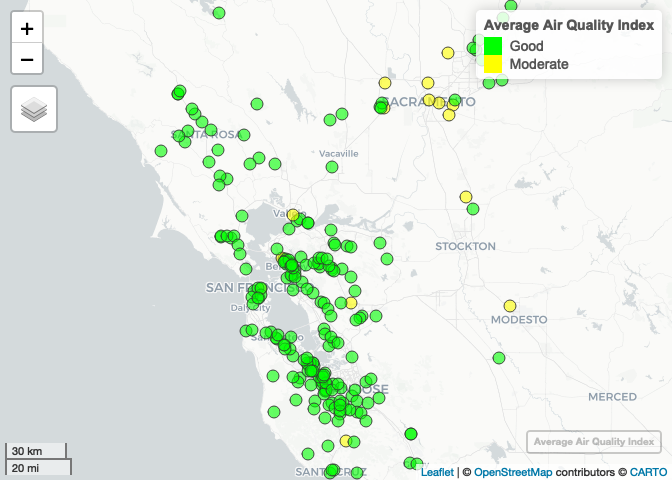
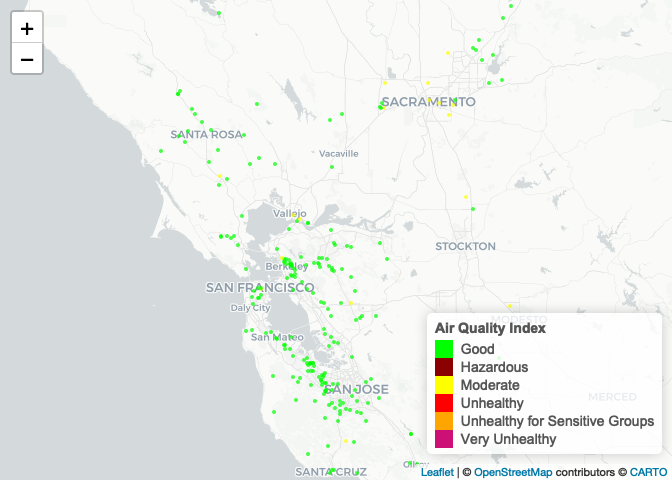
preprocess purpleair

diff --git a/PreprocessingPurpleAirPlots.md b/PreprocessingPurpleAirPlots.md
@@ -1,0 +1,24 @@
+Preprocessing PurpleAir Plots
+================
+
+# Clean PurpleAir data points
+
+## Load required libraries
+
+``` r
+library(dplyr) # For data manipulation
+library(data.table) # Faster than dataframes (for big files)
+library(ggplot2) # Plots
+library(sf) # Shapefiles
+```
+
+## Read files
+
+``` r
+purpleair_sensors <- st_read(paste0(purpleair_directory, "/purpleair_sensors.gpkg"), quiet = TRUE)
+purpleair_filtered_subset <- fread(paste0(preprocessing_directory, "/purpleair_filtered_2018-2019.csv"))
+```
+
+# Plot each sensor
+
+![](PreprocessingPurpleAirPlots_files/figure-gfm/sensor-plots-1.png)<!-- -->![](PreprocessingPurpleAirPlots_files/figure-gfm/sensor-plots-2.png)<!-- -->![](PreprocessingPurpleAirPlots_files/figure-gfm/sensor-plots-3.png)<!-- -->![](PreprocessingPurpleAirPlots_files/figure-gfm/sensor-plots-4.png)<!-- -->![](PreprocessingPurpleAirPlots_files/figure-gfm/sensor-plots-5.png)<!-- -->![](PreprocessingPurpleAirPlots_files/figure-gfm/sensor-plots-6.png)<!-- -->![](PreprocessingPurpleAirPlots_files/figure-gfm/sensor-plots-7.png)<!-- -->![](PreprocessingPurpleAirPlots_files/figure-gfm/sensor-plots-8.png)<!-- -->![](PreprocessingPurpleAirPlots_files/figure-gfm/sensor-plots-9.png)<!-- -->![](PreprocessingPurpleAirPlots_files/figure-gfm/sensor-plots-10.png)<!-- -->![](PreprocessingPurpleAirPlots_files/figure-gfm/sensor-plots-11.png)<!-- -->![](PreprocessingPurpleAirPlots_files/figure-gfm/sensor-plots-12.png)<!-- -->![](PreprocessingPurpleAirPlots_files/figure-gfm/sensor-plots-13.png)<!-- -->![](PreprocessingPurpleAirPlots_files/figure-gfm/sensor-plots-14.png)<!-- -->![](PreprocessingPurpleAirPlots_files/figure-gfm/sensor-plots-15.png)<!-- -->![](PreprocessingPurpleAirPlots_files/figure-gfm/sensor-plots-16.png)<!-- -->![](PreprocessingPurpleAirPlots_files/figure-gfm/sensor-plots-17.png)<!-- -->![](PreprocessingPurpleAirPlots_files/figure-gfm/sensor-plots-18.png)<!-- -->![](PreprocessingPurpleAirPlots_files/figure-gfm/sensor-plots-19.png)<!-- -->![](PreprocessingPurpleAirPlots_files/figure-gfm/sensor-plots-20.png)<!-- -->![](PreprocessingPurpleAirPlots_files/figure-gfm/sensor-plots-21.png)<!-- -->![](PreprocessingPurpleAirPlots_files/figure-gfm/sensor-plots-22.png)<!-- -->![](PreprocessingPurpleAirPlots_files/figure-gfm/sensor-plots-23.png)<!-- -->![](PreprocessingPurpleAirPlots_files/figure-gfm/sensor-plots-24.png)<!-- -->![](PreprocessingPurpleAirPlots_files/figure-gfm/sensor-plots-25.png)<!-- -->![](PreprocessingPurpleAirPlots_files/figure-gfm/sensor-plots-26.png)<!-- -->![](PreprocessingPurpleAirPlots_files/figure-gfm/sensor-plots-27.png)<!-- -->![](PreprocessingPurpleAirPlots_files/figure-gfm/sensor-plots-28.png)<!-- -->![](PreprocessingPurpleAirPlots_files/figure-gfm/sensor-plots-29.png)<!-- -->![](PreprocessingPurpleAirPlots_files/figure-gfm/sensor-plots-30.png)<!-- -->![](PreprocessingPurpleAirPlots_files/figure-gfm/sensor-plots-31.png)<!-- -->![](PreprocessingPurpleAirPlots_files/figure-gfm/sensor-plots-32.png)<!-- -->![](PreprocessingPurpleAirPlots_files/figure-gfm/sensor-plots-33.png)<!-- -->![](PreprocessingPurpleAirPlots_files/figure-gfm/sensor-plots-34.png)<!-- -->![](PreprocessingPurpleAirPlots_files/figure-gfm/sensor-plots-35.png)<!-- -->![](PreprocessingPurpleAirPlots_files/figure-gfm/sensor-plots-36.png)<!-- -->![](PreprocessingPurpleAirPlots_files/figure-gfm/sensor-plots-37.png)<!-- -->![](PreprocessingPurpleAirPlots_files/figure-gfm/sensor-plots-38.png)<!-- -->![](PreprocessingPurpleAirPlots_files/figure-gfm/sensor-plots-39.png)<!-- -->![](PreprocessingPurpleAirPlots_files/figure-gfm/sensor-plots-40.png)<!-- -->![](PreprocessingPurpleAirPlots_files/figure-gfm/sensor-plots-41.png)<!-- -->![](PreprocessingPurpleAirPlots_files/figure-gfm/sensor-plots-42.png)<!-- -->![](PreprocessingPurpleAirPlots_files/figure-gfm/sensor-plots-43.png)<!-- -->![](PreprocessingPurpleAirPlots_files/figure-gfm/sensor-plots-44.png)<!-- -->![](PreprocessingPurpleAirPlots_files/figure-gfm/sensor-plots-45.png)<!-- -->![](PreprocessingPurpleAirPlots_files/figure-gfm/sensor-plots-46.png)<!-- -->![](PreprocessingPurpleAirPlots_files/figure-gfm/sensor-plots-47.png)<!-- -->![](PreprocessingPurpleAirPlots_files/figure-gfm/sensor-plots-48.png)<!-- -->![](PreprocessingPurpleAirPlots_files/figure-gfm/sensor-plots-49.png)<!-- -->![](PreprocessingPurpleAirPlots_files/figure-gfm/sensor-plots-50.png)<!-- -->![](PreprocessingPurpleAirPlots_files/figure-gfm/sensor-plots-51.png)<!-- -->![](PreprocessingPurpleAirPlots_files/figure-gfm/sensor-plots-52.png)<!-- -->![](PreprocessingPurpleAirPlots_files/figure-gfm/sensor-plots-53.png)<!-- -->![](PreprocessingPurpleAirPlots_files/figure-gfm/sensor-plots-54.png)<!-- -->![](PreprocessingPurpleAirPlots_files/figure-gfm/sensor-plots-55.png)<!-- -->![](PreprocessingPurpleAirPlots_files/figure-gfm/sensor-plots-56.png)<!-- -->![](PreprocessingPurpleAirPlots_files/figure-gfm/sensor-plots-57.png)<!-- -->![](PreprocessingPurpleAirPlots_files/figure-gfm/sensor-plots-58.png)<!-- -->![](PreprocessingPurpleAirPlots_files/figure-gfm/sensor-plots-59.png)<!-- -->![](PreprocessingPurpleAirPlots_files/figure-gfm/sensor-plots-60.png)<!-- -->![](PreprocessingPurpleAirPlots_files/figure-gfm/sensor-plots-61.png)<!-- -->![](PreprocessingPurpleAirPlots_files/figure-gfm/sensor-plots-62.png)<!-- -->![](PreprocessingPurpleAirPlots_files/figure-gfm/sensor-plots-63.png)<!-- -->![](PreprocessingPurpleAirPlots_files/figure-gfm/sensor-plots-64.png)<!-- -->![](PreprocessingPurpleAirPlots_files/figure-gfm/sensor-plots-65.png)<!-- -->![](PreprocessingPurpleAirPlots_files/figure-gfm/sensor-plots-66.png)<!-- -->![](PreprocessingPurpleAirPlots_files/figure-gfm/sensor-plots-67.png)<!-- -->![](PreprocessingPurpleAirPlots_files/figure-gfm/sensor-plots-68.png)<!-- -->![](PreprocessingPurpleAirPlots_files/figure-gfm/sensor-plots-69.png)<!-- -->![](PreprocessingPurpleAirPlots_files/figure-gfm/sensor-plots-70.png)<!-- -->![](PreprocessingPurpleAirPlots_files/figure-gfm/sensor-plots-71.png)<!-- -->![](PreprocessingPurpleAirPlots_files/figure-gfm/sensor-plots-72.png)<!-- -->![](PreprocessingPurpleAirPlots_files/figure-gfm/sensor-plots-73.png)<!-- -->![](PreprocessingPurpleAirPlots_files/figure-gfm/sensor-plots-74.png)<!-- -->![](PreprocessingPurpleAirPlots_files/figure-gfm/sensor-plots-75.png)<!-- -->![](PreprocessingPurpleAirPlots_files/figure-gfm/sensor-plots-76.png)<!-- -->![](PreprocessingPurpleAirPlots_files/figure-gfm/sensor-plots-77.png)<!-- -->![](PreprocessingPurpleAirPlots_files/figure-gfm/sensor-plots-78.png)<!-- -->![](PreprocessingPurpleAirPlots_files/figure-gfm/sensor-plots-79.png)<!-- -->![](PreprocessingPurpleAirPlots_files/figure-gfm/sensor-plots-80.png)<!-- -->![](PreprocessingPurpleAirPlots_files/figure-gfm/sensor-plots-81.png)<!-- -->![](PreprocessingPurpleAirPlots_files/figure-gfm/sensor-plots-82.png)<!-- -->![](PreprocessingPurpleAirPlots_files/figure-gfm/sensor-plots-83.png)<!-- -->![](PreprocessingPurpleAirPlots_files/figure-gfm/sensor-plots-84.png)<!-- -->![](PreprocessingPurpleAirPlots_files/figure-gfm/sensor-plots-85.png)<!-- -->![](PreprocessingPurpleAirPlots_files/figure-gfm/sensor-plots-86.png)<!-- -->![](PreprocessingPurpleAirPlots_files/figure-gfm/sensor-plots-87.png)<!-- -->![](PreprocessingPurpleAirPlots_files/figure-gfm/sensor-plots-88.png)<!-- -->![](PreprocessingPurpleAirPlots_files/figure-gfm/sensor-plots-89.png)<!-- -->![](PreprocessingPurpleAirPlots_files/figure-gfm/sensor-plots-90.png)<!-- -->![](PreprocessingPurpleAirPlots_files/figure-gfm/sensor-plots-91.png)<!-- -->![](PreprocessingPurpleAirPlots_files/figure-gfm/sensor-plots-92.png)<!-- -->![](PreprocessingPurpleAirPlots_files/figure-gfm/sensor-plots-93.png)<!-- -->![](PreprocessingPurpleAirPlots_files/figure-gfm/sensor-plots-94.png)<!-- -->![](PreprocessingPurpleAirPlots_files/figure-gfm/sensor-plots-95.png)<!-- -->![](PreprocessingPurpleAirPlots_files/figure-gfm/sensor-plots-96.png)<!-- -->![](PreprocessingPurpleAirPlots_files/figure-gfm/sensor-plots-97.png)<!-- -->![](PreprocessingPurpleAirPlots_files/figure-gfm/sensor-plots-98.png)<!-- -->![](PreprocessingPurpleAirPlots_files/figure-gfm/sensor-plots-99.png)<!-- -->![](PreprocessingPurpleAirPlots_files/figure-gfm/sensor-plots-100.png)<!-- -->![](PreprocessingPurpleAirPlots_files/figure-gfm/sensor-plots-101.png)<!-- -->![](PreprocessingPurpleAirPlots_files/figure-gfm/sensor-plots-102.png)<!-- -->![](PreprocessingPurpleAirPlots_files/figure-gfm/sensor-plots-103.png)<!-- -->![](PreprocessingPurpleAirPlots_files/figure-gfm/sensor-plots-104.png)<!-- -->![](PreprocessingPurpleAirPlots_files/figure-gfm/sensor-plots-105.png)<!-- -->![](PreprocessingPurpleAirPlots_files/figure-gfm/sensor-plots-106.png)<!-- -->![](PreprocessingPurpleAirPlots_files/figure-gfm/sensor-plots-107.png)<!-- -->![](PreprocessingPurpleAirPlots_files/figure-gfm/sensor-plots-108.png)<!-- -->![](PreprocessingPurpleAirPlots_files/figure-gfm/sensor-plots-109.png)<!-- -->![](PreprocessingPurpleAirPlots_files/figure-gfm/sensor-plots-110.png)<!-- -->![](PreprocessingPurpleAirPlots_files/figure-gfm/sensor-plots-111.png)<!-- -->![](PreprocessingPurpleAirPlots_files/figure-gfm/sensor-plots-112.png)<!-- -->![](PreprocessingPurpleAirPlots_files/figure-gfm/sensor-plots-113.png)<!-- -->![](PreprocessingPurpleAirPlots_files/figure-gfm/sensor-plots-114.png)<!-- -->![](PreprocessingPurpleAirPlots_files/figure-gfm/sensor-plots-115.png)<!-- -->![](PreprocessingPurpleAirPlots_files/figure-gfm/sensor-plots-116.png)<!-- -->![](PreprocessingPurpleAirPlots_files/figure-gfm/sensor-plots-117.png)<!-- -->![](PreprocessingPurpleAirPlots_files/figure-gfm/sensor-plots-118.png)<!-- -->![](PreprocessingPurpleAirPlots_files/figure-gfm/sensor-plots-119.png)<!-- -->![](PreprocessingPurpleAirPlots_files/figure-gfm/sensor-plots-120.png)<!-- -->![](PreprocessingPurpleAirPlots_files/figure-gfm/sensor-plots-121.png)<!-- -->![](PreprocessingPurpleAirPlots_files/figure-gfm/sensor-plots-122.png)<!-- -->![](PreprocessingPurpleAirPlots_files/figure-gfm/sensor-plots-123.png)<!-- -->![](PreprocessingPurpleAirPlots_files/figure-gfm/sensor-plots-124.png)<!-- -->![](PreprocessingPurpleAirPlots_files/figure-gfm/sensor-plots-125.png)<!-- -->![](PreprocessingPurpleAirPlots_files/figure-gfm/sensor-plots-126.png)<!-- -->![](PreprocessingPurpleAirPlots_files/figure-gfm/sensor-plots-127.png)<!-- -->![](PreprocessingPurpleAirPlots_files/figure-gfm/sensor-plots-128.png)<!-- -->![](PreprocessingPurpleAirPlots_files/figure-gfm/sensor-plots-129.png)<!-- -->![](PreprocessingPurpleAirPlots_files/figure-gfm/sensor-plots-130.png)<!-- -->![](PreprocessingPurpleAirPlots_files/figure-gfm/sensor-plots-131.png)<!-- -->![](PreprocessingPurpleAirPlots_files/figure-gfm/sensor-plots-132.png)<!-- -->![](PreprocessingPurpleAirPlots_files/figure-gfm/sensor-plots-133.png)<!-- -->![](PreprocessingPurpleAirPlots_files/figure-gfm/sensor-plots-134.png)<!-- -->![](PreprocessingPurpleAirPlots_files/figure-gfm/sensor-plots-135.png)<!-- -->![](PreprocessingPurpleAirPlots_files/figure-gfm/sensor-plots-136.png)<!-- -->![](PreprocessingPurpleAirPlots_files/figure-gfm/sensor-plots-137.png)<!-- -->![](PreprocessingPurpleAirPlots_files/figure-gfm/sensor-plots-138.png)<!-- -->![](PreprocessingPurpleAirPlots_files/figure-gfm/sensor-plots-139.png)<!-- -->![](PreprocessingPurpleAirPlots_files/figure-gfm/sensor-plots-140.png)<!-- -->![](PreprocessingPurpleAirPlots_files/figure-gfm/sensor-plots-141.png)<!-- -->![](PreprocessingPurpleAirPlots_files/figure-gfm/sensor-plots-142.png)<!-- -->![](PreprocessingPurpleAirPlots_files/figure-gfm/sensor-plots-143.png)<!-- -->![](PreprocessingPurpleAirPlots_files/figure-gfm/sensor-plots-144.png)<!-- -->![](PreprocessingPurpleAirPlots_files/figure-gfm/sensor-plots-145.png)<!-- -->![](PreprocessingPurpleAirPlots_files/figure-gfm/sensor-plots-146.png)<!-- -->![](PreprocessingPurpleAirPlots_files/figure-gfm/sensor-plots-147.png)<!-- -->![](PreprocessingPurpleAirPlots_files/figure-gfm/sensor-plots-148.png)<!-- -->![](PreprocessingPurpleAirPlots_files/figure-gfm/sensor-plots-149.png)<!-- -->![](PreprocessingPurpleAirPlots_files/figure-gfm/sensor-plots-150.png)<!-- -->![](PreprocessingPurpleAirPlots_files/figure-gfm/sensor-plots-151.png)<!-- -->![](PreprocessingPurpleAirPlots_files/figure-gfm/sensor-plots-152.png)<!-- -->![](PreprocessingPurpleAirPlots_files/figure-gfm/sensor-plots-153.png)<!-- -->![](PreprocessingPurpleAirPlots_files/figure-gfm/sensor-plots-154.png)<!-- -->![](PreprocessingPurpleAirPlots_files/figure-gfm/sensor-plots-155.png)<!-- -->![](PreprocessingPurpleAirPlots_files/figure-gfm/sensor-plots-156.png)<!-- -->![](PreprocessingPurpleAirPlots_files/figure-gfm/sensor-plots-157.png)<!-- -->![](PreprocessingPurpleAirPlots_files/figure-gfm/sensor-plots-158.png)<!-- -->![](PreprocessingPurpleAirPlots_files/figure-gfm/sensor-plots-159.png)<!-- -->![](PreprocessingPurpleAirPlots_files/figure-gfm/sensor-plots-160.png)<!-- -->![](PreprocessingPurpleAirPlots_files/figure-gfm/sensor-plots-161.png)<!-- -->![](PreprocessingPurpleAirPlots_files/figure-gfm/sensor-plots-162.png)<!-- -->![](PreprocessingPurpleAirPlots_files/figure-gfm/sensor-plots-163.png)<!-- -->![](PreprocessingPurpleAirPlots_files/figure-gfm/sensor-plots-164.png)<!-- -->![](PreprocessingPurpleAirPlots_files/figure-gfm/sensor-plots-165.png)<!-- -->![](PreprocessingPurpleAirPlots_files/figure-gfm/sensor-plots-166.png)<!-- -->![](PreprocessingPurpleAirPlots_files/figure-gfm/sensor-plots-167.png)<!-- -->![](PreprocessingPurpleAirPlots_files/figure-gfm/sensor-plots-168.png)<!-- -->![](PreprocessingPurpleAirPlots_files/figure-gfm/sensor-plots-169.png)<!-- -->![](PreprocessingPurpleAirPlots_files/figure-gfm/sensor-plots-170.png)<!-- -->![](PreprocessingPurpleAirPlots_files/figure-gfm/sensor-plots-171.png)<!-- -->![](PreprocessingPurpleAirPlots_files/figure-gfm/sensor-plots-172.png)<!-- -->![](PreprocessingPurpleAirPlots_files/figure-gfm/sensor-plots-173.png)<!-- -->![](PreprocessingPurpleAirPlots_files/figure-gfm/sensor-plots-174.png)<!-- -->![](PreprocessingPurpleAirPlots_files/figure-gfm/sensor-plots-175.png)<!-- -->![](PreprocessingPurpleAirPlots_files/figure-gfm/sensor-plots-176.png)<!-- -->![](PreprocessingPurpleAirPlots_files/figure-gfm/sensor-plots-177.png)<!-- -->![](PreprocessingPurpleAirPlots_files/figure-gfm/sensor-plots-178.png)<!-- -->![](PreprocessingPurpleAirPlots_files/figure-gfm/sensor-plots-179.png)<!-- -->![](PreprocessingPurpleAirPlots_files/figure-gfm/sensor-plots-180.png)<!-- -->![](PreprocessingPurpleAirPlots_files/figure-gfm/sensor-plots-181.png)<!-- -->![](PreprocessingPurpleAirPlots_files/figure-gfm/sensor-plots-182.png)<!-- -->![](PreprocessingPurpleAirPlots_files/figure-gfm/sensor-plots-183.png)<!-- -->![](PreprocessingPurpleAirPlots_files/figure-gfm/sensor-plots-184.png)<!-- -->![](PreprocessingPurpleAirPlots_files/figure-gfm/sensor-plots-185.png)<!-- -->![](PreprocessingPurpleAirPlots_files/figure-gfm/sensor-plots-186.png)<!-- -->![](PreprocessingPurpleAirPlots_files/figure-gfm/sensor-plots-187.png)<!-- -->![](PreprocessingPurpleAirPlots_files/figure-gfm/sensor-plots-188.png)<!-- -->![](PreprocessingPurpleAirPlots_files/figure-gfm/sensor-plots-189.png)<!-- -->![](PreprocessingPurpleAirPlots_files/figure-gfm/sensor-plots-190.png)<!-- -->![](PreprocessingPurpleAirPlots_files/figure-gfm/sensor-plots-191.png)<!-- -->![](PreprocessingPurpleAirPlots_files/figure-gfm/sensor-plots-192.png)<!-- -->![](PreprocessingPurpleAirPlots_files/figure-gfm/sensor-plots-193.png)<!-- -->![](PreprocessingPurpleAirPlots_files/figure-gfm/sensor-plots-194.png)<!-- -->![](PreprocessingPurpleAirPlots_files/figure-gfm/sensor-plots-195.png)<!-- -->![](PreprocessingPurpleAirPlots_files/figure-gfm/sensor-plots-196.png)<!-- -->![](PreprocessingPurpleAirPlots_files/figure-gfm/sensor-plots-197.png)<!-- -->![](PreprocessingPurpleAirPlots_files/figure-gfm/sensor-plots-198.png)<!-- -->![](PreprocessingPurpleAirPlots_files/figure-gfm/sensor-plots-199.png)<!-- -->![](PreprocessingPurpleAirPlots_files/figure-gfm/sensor-plots-200.png)<!-- -->![](PreprocessingPurpleAirPlots_files/figure-gfm/sensor-plots-201.png)<!-- -->![](PreprocessingPurpleAirPlots_files/figure-gfm/sensor-plots-202.png)<!-- -->![](PreprocessingPurpleAirPlots_files/figure-gfm/sensor-plots-203.png)<!-- -->![](PreprocessingPurpleAirPlots_files/figure-gfm/sensor-plots-204.png)<!-- -->![](PreprocessingPurpleAirPlots_files/figure-gfm/sensor-plots-205.png)<!-- -->![](PreprocessingPurpleAirPlots_files/figure-gfm/sensor-plots-206.png)<!-- -->![](PreprocessingPurpleAirPlots_files/figure-gfm/sensor-plots-207.png)<!-- -->![](PreprocessingPurpleAirPlots_files/figure-gfm/sensor-plots-208.png)<!-- -->![](PreprocessingPurpleAirPlots_files/figure-gfm/sensor-plots-209.png)<!-- -->![](PreprocessingPurpleAirPlots_files/figure-gfm/sensor-plots-210.png)<!-- -->![](PreprocessingPurpleAirPlots_files/figure-gfm/sensor-plots-211.png)<!-- -->![](PreprocessingPurpleAirPlots_files/figure-gfm/sensor-plots-212.png)<!-- -->![](PreprocessingPurpleAirPlots_files/figure-gfm/sensor-plots-213.png)<!-- -->![](PreprocessingPurpleAirPlots_files/figure-gfm/sensor-plots-214.png)<!-- -->![](PreprocessingPurpleAirPlots_files/figure-gfm/sensor-plots-215.png)<!-- -->![](PreprocessingPurpleAirPlots_files/figure-gfm/sensor-plots-216.png)<!-- -->![](PreprocessingPurpleAirPlots_files/figure-gfm/sensor-plots-217.png)<!-- -->![](PreprocessingPurpleAirPlots_files/figure-gfm/sensor-plots-218.png)<!-- -->![](PreprocessingPurpleAirPlots_files/figure-gfm/sensor-plots-219.png)<!-- -->![](PreprocessingPurpleAirPlots_files/figure-gfm/sensor-plots-220.png)<!-- -->![](PreprocessingPurpleAirPlots_files/figure-gfm/sensor-plots-221.png)<!-- -->![](PreprocessingPurpleAirPlots_files/figure-gfm/sensor-plots-222.png)<!-- -->![](PreprocessingPurpleAirPlots_files/figure-gfm/sensor-plots-223.png)<!-- -->![](PreprocessingPurpleAirPlots_files/figure-gfm/sensor-plots-224.png)<!-- -->![](PreprocessingPurpleAirPlots_files/figure-gfm/sensor-plots-225.png)<!-- -->![](PreprocessingPurpleAirPlots_files/figure-gfm/sensor-plots-226.png)<!-- -->![](PreprocessingPurpleAirPlots_files/figure-gfm/sensor-plots-227.png)<!-- -->![](PreprocessingPurpleAirPlots_files/figure-gfm/sensor-plots-228.png)<!-- -->![](PreprocessingPurpleAirPlots_files/figure-gfm/sensor-plots-229.png)<!-- -->![](PreprocessingPurpleAirPlots_files/figure-gfm/sensor-plots-230.png)<!-- -->![](PreprocessingPurpleAirPlots_files/figure-gfm/sensor-plots-231.png)<!-- -->![](PreprocessingPurpleAirPlots_files/figure-gfm/sensor-plots-232.png)<!-- -->![](PreprocessingPurpleAirPlots_files/figure-gfm/sensor-plots-233.png)<!-- -->![](PreprocessingPurpleAirPlots_files/figure-gfm/sensor-plots-234.png)<!-- -->![](PreprocessingPurpleAirPlots_files/figure-gfm/sensor-plots-235.png)<!-- -->

diff --git a/PreprocessingPurpleAir.md b/PreprocessingPurpleAir.md
@@ -323,6 +323,62 @@ purpleair_filtered_subset <- purpleair_filtered_subset %>% filter(sensor_index %
 # Remove unnecessary columns
 purpleair_filtered_subset <- purpleair_filtered_subset %>% select(-pm2.5_atm_a, -pm2.5_atm_b)
 
+# Define the range of your timestamps
+start_time <- min(purpleair_filtered_subset$time_stamp, na.rm = TRUE)
+end_time <- max(purpleair_filtered_subset$time_stamp, na.rm = TRUE)
+
+# Generate a sequence of all possible hourly timestamps within the range
+all_timestamps <- seq(from = start_time, to = end_time, by = "hour")
+
+n_timestamps <- length(all_timestamps)
+
+# Sensors missing data
+avail_data <- purpleair_filtered_subset %>%
+  group_by(sensor_index) %>%
+  summarize(avail_data_percent = round(100*n() / n_timestamps,2)) %>%
+  arrange((avail_data_percent))
+
+sensors80 <- avail_data %>% filter(avail_data_percent>80)
+
+purpleair_filtered_subset <- purpleair_filtered_subset %>%
+  filter(sensor_index %in% sensors80$sensor_index)
+```
+
+## Plot random sensors
+
+``` r
+# Plot 4 random sensors
+subset_sensors <- sample(unique(purpleair_filtered_subset$sensor_index), 4)
+filtered_data <- purpleair_filtered_subset %>% filter(sensor_index %in% subset_sensors)
+
+# Create the faceted plot
+ggplot(filtered_data, aes(x = time_stamp, y = pm2.5_atm, color = as.factor(sensor_index))) +
+  geom_line() +
+  labs(
+    x = "Date", 
+    y = "PM2.5 ATM", 
+    title = "PM2.5 Levels Over Time by Sensor"
+  ) +
+  facet_wrap(~ sensor_index, scales = "fixed", ncol = 2) +
+  theme_minimal() +
+  theme(
+    axis.text.x = element_text(angle = 45, hjust = 1),
+    plot.title = element_text(hjust = 0.5),
+    legend.position = "none"
+  )
+```
+
+![](PreprocessingPurpleAir_files/figure-gfm/plot-random-sensors-1.png)<!-- -->
+
+## Remove sensor 20349 (mostly zeros)
+
+``` r
+purpleair_filtered_subset <- purpleair_filtered_subset %>% filter(sensor_index != 20349)
+```
+
+## Save Filtered Data to CSV
+
+``` r
 # Save filtered data
 write.csv(purpleair_filtered_subset, file = file.path(preprocessing_directory, "purpleair_filtered_2018-2019.csv"), row.names = FALSE)
 ```
@@ -331,7 +387,7 @@ write.csv(purpleair_filtered_subset, file = file.path(preprocessing_directory, "
 
 ``` r
 # https://www.epa.gov/sites/default/files/2016-04/documents/2012_aqi_factsheet.pdf
-avg_pm25 <- purpleair_filtered %>%
+avg_pm25 <- purpleair_filtered_subset %>%
   group_by(sensor_index) %>%
   summarize(avg_pm25 = mean(pm2.5_atm))
 
@@ -342,15 +398,24 @@ AQI <- c("Good", "Moderate", "Unhealthy for Sensitive Groups", "Unhealthy", "Ver
 # Create a new column with color intervals
 avg_pm25$AQI <- cut(avg_pm25$avg_pm25, breaks = intervals, labels = AQI, include.lowest = TRUE)
 
-pa_avgpm25 <- merge(purpleair_sensors, avg_pm25, by="sensor_index")
+pa_avgpm25 <- merge(purpleair_sensors, avg_pm25, by = "sensor_index")
 
-custom_colors <- c("green", "yellow", "orange", "red", "deeppink3", "darkred")
+# Define a color palette function
+color_palette <- colorFactor(palette = c("green", "yellow", "orange", "red", "deeppink3", "darkred"), 
+                             levels = AQI)
 
-# Create a new column with color intervals
-pa_avgpm25$AQI <- cut(pa_avgpm25$avg_pm25, breaks = intervals, labels = AQI, include.lowest = TRUE)
-
-# Plot the average PM2.5 for each sensor with custom colors
-mapview(pa_avgpm25, zcol = "AQI", col.regions = custom_colors, legend = TRUE, layer.name = "Average Air Quality Index")
+# Plot the average PM2.5 for each sensor with leaflet
+leaflet(pa_avgpm25) %>%
+  addProviderTiles("CartoDB") %>% 
+  addCircleMarkers(
+    radius = 2, 
+    color = ~color_palette(AQI), 
+    fillOpacity = 0.7, 
+    stroke = FALSE,
+    label = ~paste("Sensor Index:", sensor_index, "<br>Average PM2.5:", round(avg_pm25, 2), "<br>AQI:", AQI)
+  ) %>%
+  addLegend("bottomright", pal = color_palette, values = AQI, 
+            title = "Air Quality Index", opacity = 1)
 ```
 
 ![](PreprocessingPurpleAir_files/figure-gfm/map-AQI-1.png)<!-- -->
